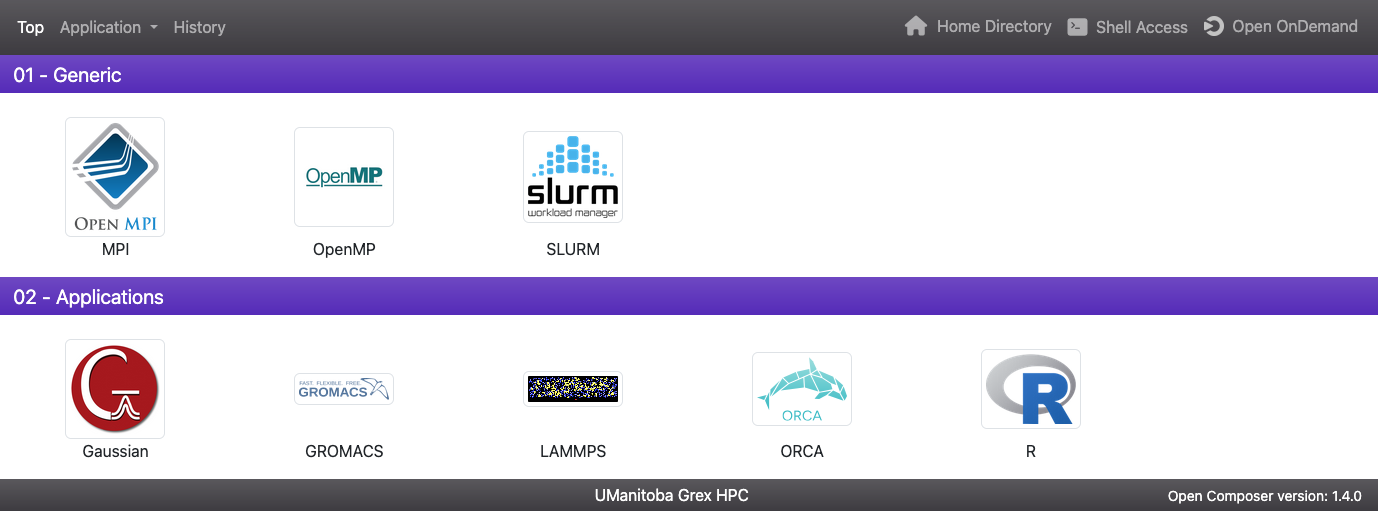
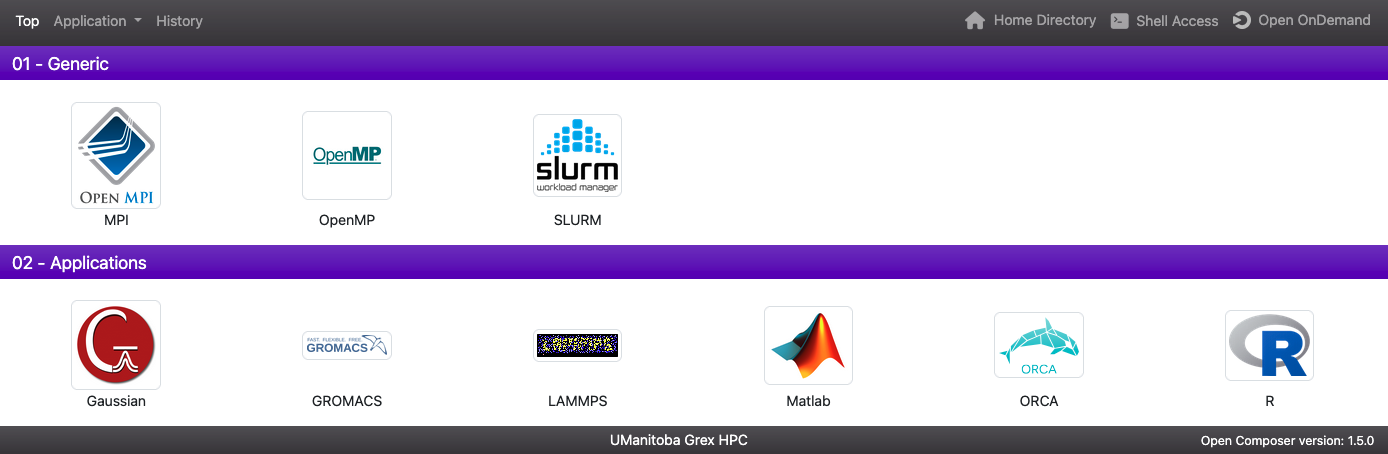
job-composer

diff --git a/content/english/ood/job-composer.md b/content/english/ood/job-composer.md
@@ -6,9 +6,25 @@ description: "Everything you need to know about Job Composer."
 categories: []
 ---
 
-## OpenOnDemand Desktops
+## Job Composer
 ---
 
+The Job Composer is an interface to create and submit jobs via OOD. It is accessible from the menu __Jobs ==> Grex JobComposer__. 
+
+Once launched, it shows the applications that are already configured:
+
+{{< collapsible title="Grex JobComposer" >}}
+![JobComposer Interface](/ood/job-composer.png)
+{{< /collapsible >}}
+
+At the time of writing this page, there are two categories:
+
+* Generic applications to create slurm scripts.
+
+* Specific job composer for some applications like Gaussian, GROMACS, ORCA, MATLAB and R. 
+
+More application could be configured and added to the JobComposer interface.
+ 
 <!-- {{< treeview display="tree" />}} -->
 
 <!-- Changes and update:
